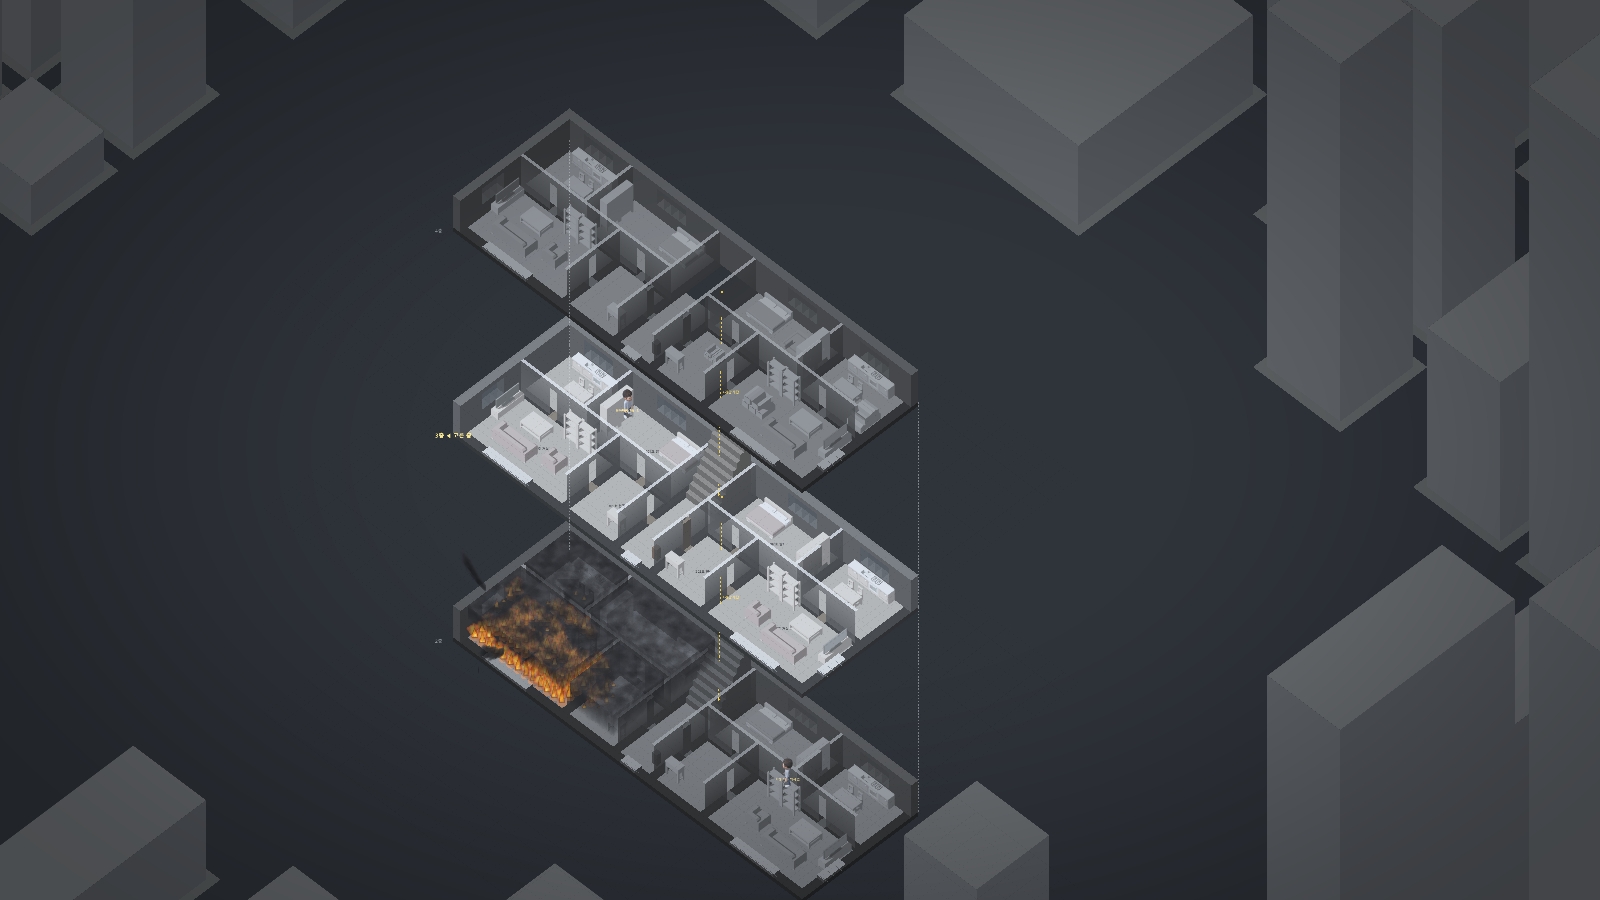
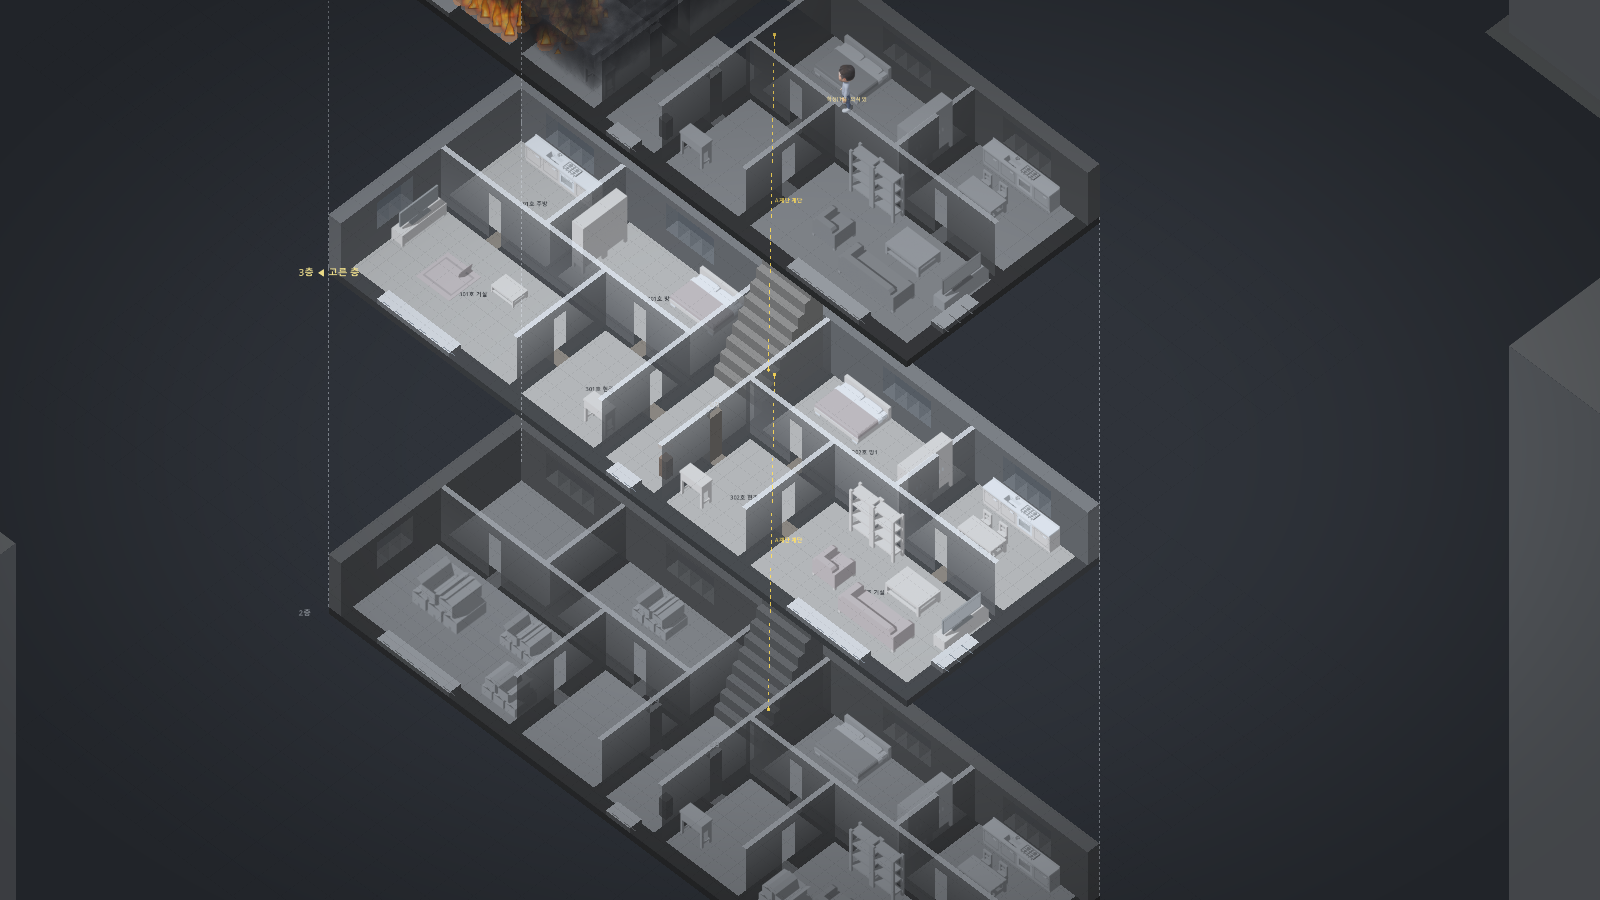
화면: 내부 화면은 고른 층을 가운데에 크게 + '전체보기' 단추(세 층), 다른 층을 누르면 그 층이 가운데로 미끄러져 옴

diff --git a/docs/progress.md b/docs/progress.md
@@ -82,3 +82,4 @@
 | 2026-11-14 | 층 분리 보기 시험 화면 | data/ui/view_params.json(split_lift_ratio·split_gap_px·split_step_px·split_min_px·split_zoom_min), scripts/ui/building/view_params.gd·floor_stack.gd(split_min_lift_px·split_default_lift_px), scripts/ui/iso_view.gd(split·set_split·split_rect·split_available, 분리 보기에서는 그림자 없음), scripts/ui/rts_camera.gd(zoom_min), scripts/world.gd(set_split_view·_step_split_gap·_frame_split, 층 바꿀 때 카메라 보정, 이동 범위), scripts/ui/hud.gd(층 막대 아래 단추·간격 − +), tests/test_split_view.gd(새)·ui_split.gd(새), docs/ref/split_view_trial.png | 헤드리스 15개(test_split_view 4·test_cutaway 11), 화면 점검 4종(ui_split 16항목·ui_cutaway 39·ui_smoke 142·ui_command_card 51) 통과. 전체 테스트는 아직. 시험 화면의 한계: 짝 층(안 고른 층)은 흑백·어둡게 나오고 그 층의 방은 한 번 눌러 지금 층으로 바꾼 뒤 지시해야 한다. 3층 이상은 두 층씩만. 분리 보기에서 계단을 오르는 수관·대원은 층 사이를 건너뛴다(점선만). 켠 상태는 저장되지 않는다(판마다 꺼진 채 시작). 표준으로 삼을지는 사용자 결정 대기 |
 | 2026-11-14 | 층 분리 보기 기본 간격 874px | data/ui/view_params.json(split_gap_px -20), scripts/ui/building/floor_stack.gd(설명), tests/test_split_view.gd·ui_split.gd, docs/ref/split_view_trial.png | 헤드리스 15개·ui_split 16항목 통과. 남음: 간격을 설정 화면에서 고르기(나중에), 켠 상태 저장. 사용자 제안 두 가지는 판단을 보고하고 결정 대기 — ① 평소 화면의 위층 표시(뒤로 비킨 뒷벽·뚫린 바닥판) 없애기 ② 시야 표시를 세 단계로(안 본 곳 = 구조만, 지금 시야 = 밝게, 지나간 곳 = 멈춘 듯 어둡게) |
 | 2026-11-14 | 화면을 둘로: 외부 화면 + 내부 화면(층 분리) | data/ui/view_params.json(stack_mode stagger·stagger_back_ratio 0·zoom_switch 끔, split_lift_px·split_outdoor_darken·split_city_dim), scripts/ui/building/view_params.gd·floor_stack.gd(lift_px, 직상층·직하층, 직하층 바깥 땅 누르기)·floor_layer.gd(층 분리에서는 가림 표 없음, 바깥 땅 어둡게), scripts/ui/iso_view.gd(세 층·이웃 층 색 겹 둘·계단 점선·안내선·이름표, set_lift·frame_rect·shown_rect·level_shift, 위층 구멍·그림자·전환 연출 없음), scripts/ui/selection_controller.gd(다른 층을 누르면 그 층으로 바꾸고 같은 클릭 처리), scripts/world.gd(set_view_level keep_screen·_fit_view_change·_frame_interior·_set_interior, 줌 전환 없앰, 주변 건물 흐리게), scripts/ui/hud.gd('내부 보기' 단추·간격 − +), data/tutorial/basics.json(6단계 문구), tests/test_cutaway.gd·test_split_view.gd·ui_cutaway.gd·ui_split.gd, docs/ref/cutaway_exterior.png·cutaway_interior.png·split_view_trial.png | 헤드리스 26개(화면 계산·튜토리얼·명령 칸·힌트), 화면 점검 6종(ui_split 21항목·ui_cutaway 36·ui_smoke 142 두 번·ui_command_card 51·ui_radio 25·ui_end_menu) 통과. 전체 테스트는 아직. **남은 문제:** ① 15층 아파트는 간격 790px·맞춤 배율 0.31이라 대원이 매우 작다(튜토리얼 뒤 그 건물에서 조정 필요) ② 아파트 내부 화면 1배속 약 40fps(세 층을 온전히 그림, 그리기만은 57fps — 시뮬레이션과 겹칠 때 떨어짐) ③ 예전 제자리 단면 그리기 코드(floor_layer.gd의 위층 턱·잘린 벽·실루엣, FloorStack stack 갈래, test_cutaway의 _stack 테스트)는 쓰지 않지만 남아 있음 — 화면 확인 뒤 지움 ④ 안팎을 오갈 때 카메라가 한 번에 바뀜(부드러운 이동 없음) ⑤ 다른 층 위에서는 경로 미리보기·노란 안내가 누르기 전에는 나오지 않음 ⑥ 이웃 층은 매 틱에만 다시 그림(지금 층만 매 프레임) ⑦ ui_smoke '잠긴 문 우클릭' 1건이 다섯 번 중 한 번 실패(다시 돌리면 통과 — 원인 미확인) ⑧ ui_pick은 이번 변경 전부터 스크립트 오류 3건으로 돌지 않음(없는 조 id) ⑨ 층 간격을 설정 화면에서 고르기, 층 정보(입면)·시야 세 단계·카드 정리는 다음 작업 |
+| 2026-11-14 | 내부 화면 맞춤: 고른 층 크게 + 전체보기 | data/ui/view_params.json(split_focus_zoom_max·split_info_width_px·split_glide_s, split_zoom_min 0.25), scripts/ui/building/view_params.gd, scripts/ui/iso_view.gd(frame_rect(overview)), scripts/world.gd(interior_overview·set_interior_overview·_interior_target·_step_glide), scripts/ui/hud.gd('전체보기' 단추), data/tutorial/basics.json(6단계 문구), tests/ui_split.gd·ui_cutaway.gd, docs/ref/split_view_focus.png·split_view_trial.png·cutaway_*.png | 헤드리스 18개, 화면 점검 4종(ui_split 29항목·ui_cutaway 37·ui_smoke 142·ui_command_card 51) 통과. 배율: 2층 주택 고른 층 0.75 / 15층 아파트 고른 층 0.52·전체보기 0.25. 남음: 주택에서 위층은 위쪽 표시줄 밑으로 앞 모서리만 조금 보인다(간격 874px 그대로 — 더 보이게 하려면 간격을 줄이거나 표시줄 자리를 조정). 전체보기 상태는 저장되지 않는다(판마다 꺼진 채). 무전 기록을 접거나 펴도 화면을 다시 맞추지 않는다. 다음: 층 정보(왼쪽 입면·층마다 한 줄 정보) |

diff --git a/docs/decisions.md b/docs/decisions.md
@@ -164,3 +164,4 @@
 | 2026-11-14 | 화면 | 층 분리 보기의 기본 간격 | 2층 주택 874px — 위층 앞 모서리가 아래층 뒷벽 윗부분에 20px쯤 걸치게 (split_gap_px 40 → -20: 겹치지 않는 최소 거리에서 20px 뺌, 다른 건물도 같은 만큼 걸친다). 바닥은 가리지 않는다. 간격은 나중에 설정 화면에서 고를 수 있게 | 사용자 결정 (직접 본 뒤): 층 분리가 마음에 든다, 살짝 걸쳐야 더 입체적. 벽 높이의 절반(약 60px)을 넘기면 뒷벽 앞 대원 머리가 가려지므로 그 안에서 |
 | 2026-11-14 | 화면 | 화면을 둘로: 외부 화면 + 분리 화면 (제자리 단면 없앰) | ① **외부 화면** = 건물 외관과 바깥 — 큰 틀의 작전(차량 배치·급수·360° 둘러보기·구역·후착대)과 밖에서 보이는 연기·화염 확인 ② **분리 화면(내부)** = 고른 층 + 직상층 + 직하층을 위아래로 떼어 모두 불투명하게. 화면 맞춤은 '고른 층 + 직상층'(직상층이 없으면 직하층)이고 직하층은 아래에 이어져 있어 내리거나 축소하면 보인다. 보이는 층 어디든 한 번 눌러 바로 지시(누른 층이 고른 층이 되고 화면은 제자리). 주변 건물·도로·바깥 땅은 흐리게, 차량·대원·수관·불·연기는 그대로. ③ 11-12의 '제자리 단면'(위층을 뒤로 비킨 뒷벽 상자·뚫린 바닥판·잘린 벽, 아래층 흑백)은 없앤다 — 11-12 '층 표시 규칙을 모든 건물의 표준으로' 결정을 대체 ④ 확대·축소로 안팎이 바뀌던 것(R17)은 없애고 층 막대·'내부 보기' 단추·PgUp/PgDn으로 ⑤ 층 정보는 평면 입면(층 막대를 키움)부터, 입체 입면은 써 본 뒤 ⑥ '고른 층'은 플레이어가 고른 층 — 불난 층을 자동으로 잡지 않는다(보고 전 정보 누설) | 사용자 결정. 외부에서 연기·화염을 보고 보고해야 하고, 1층과 2층에 동시에 투입하는 경우가 있어 해당층·직상층·직하층이 한눈에 보여야 한다(카드 인용: 검색 순서 SOP 202-3.1.2, 활동 거점 직하층 SOP 202 각주 10·SSG 4). 지휘관 명령 칸은 늘 아래에 있다. 세 층을 한 화면에 다 넣으면 주택 크기도 0.3배라 맞춤은 두 층. 기획안 9-4(위·아래 2개 층 단면)·R17을 바꾸는 결정 — 기획안에 옮길 것 |
 | 2026-11-14 | 화면 | 시야 세 단계 (구현은 다음 작업) | 안 본 곳 = 구조만 보이는 빈 도면(어둡게 하지 않음, 가구·불·연기 없음) / 지금 시야 = 가장 밝게 / 지나간 곳 = 25~30% 어둡게, 마지막으로 본 가구·불·연기가 멈춘 채. 바탕은 무채색 유지 — 밝기로만 구분 (11-12 '정적인 것은 무채색, 움직이는 것만 색' 유지) | 사용자 결정 (추천 승인). 스타크래프트의 검정/기억/시야 세 단계에서 검정만 빈 도면으로. 지금도 구조는 보이고 시야·기억 계산은 있으나 밝기 차이(0·12·30%)가 작아 읽히지 않았다 |
+| 2026-11-14 | 화면 | 내부 화면의 화면 맞춤 (앞 결정의 '고른 층 + 직상층 맞춤'을 대체) | 내부 화면에 들어가면 **고른 층이 가운데에 크게** — 왼쪽 정보창 자리(240px)·위 표시줄·아래 콘솔·펼쳐진 무전 기록을 뺀 영역에 꽉 차는 배율(상한 1.0). 직상층·직하층은 위아래로 잘려 보인다. **'전체보기' 단추**를 켜면 세 층이 다 들어오게 축소, 끄면 다시 크게. 평소에 잘려 보이는 다른 층을 누르면 클릭은 그 자리에서 처리되고 마우스 단추를 뗀 뒤 그 층이 0.25초 동안 가운데로 미끄러져 온다(배율 그대로). 전체보기에서는 제자리. 최소 배율 0.3 → 0.25 (15층 아파트 세 층이 0.26 필요) | 사용자 제안·결정. 두 층을 다 넣느라 대원이 작던 문제가 풀린다: 2층 주택 0.45 → 0.75, 15층 아파트 0.31 → 0.52. 세 층을 한눈에 봐야 할 때만 전체보기 |
